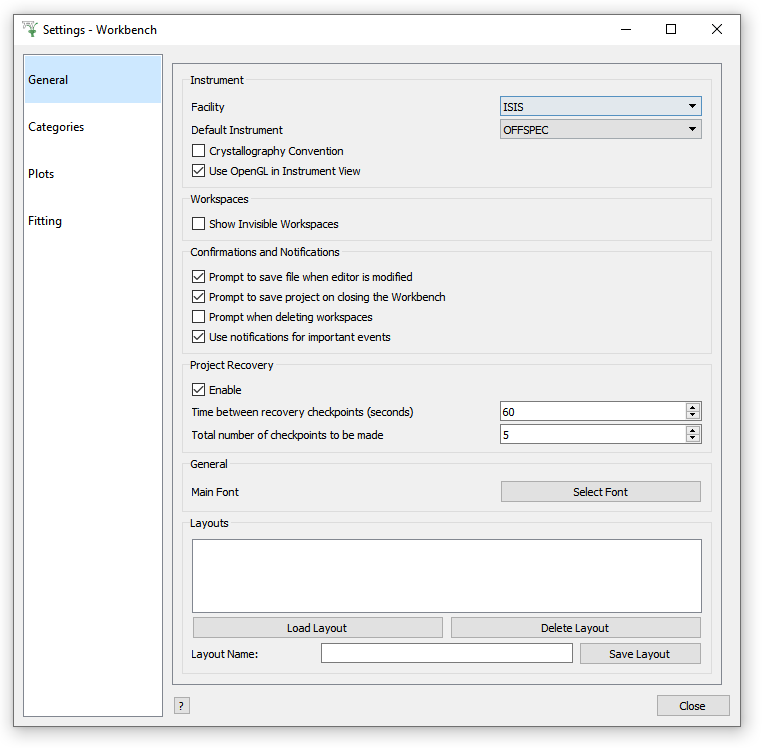
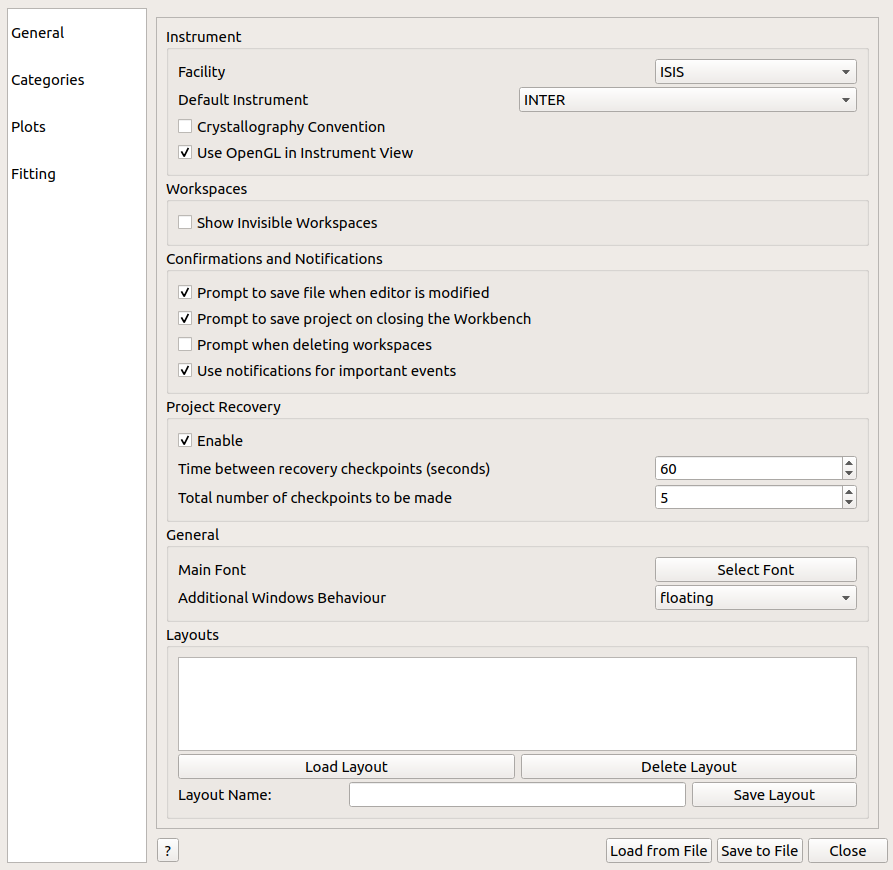
Add documentation describing window behavior
This commit adds documentation describing the window behaviour setting.

Changed region(s): [[0.0, 0.0, 1.0, 1.0]]

diff --git a/docs/source/workbench/windowbehaviour.rst b/docs/source/workbench/windowbehaviour.rst
@@ -1,0 +1,42 @@
+.. _WorkbenchWindowBehavior:
+
+=====================================
+Workbench Additional Window Behavior
+=====================================
+Within workbench, there is a setting (`Additional Window Behavior`) to control the behavior of additional windows, e.g. plots.
+This setting can take two values, floating or ontop, the effect of each can be summarised as follows.
+
+- **Ontop**: The new windows (e.g plots) will stay ontop of the workbench main window
+- **Floating**: The new windows (e.g plots) will be treated as separate windows, not tied to the main workbench window.
+  This means they can go behind the workbench mainwindow, but may be raised again using the task bar icon.
+
+OS Behavior
+***********
+
+These two settings have some subtle differences on each OS due to the window managers employed in each instance.
+Below we summarise the behavior of these settings on each OS.
+
+Linux
+~~~~~~
+
+.. |WindowOnTopLinux| image:: ../images/window_ontop_linux.png
+    :scale: 70%
+    :align: middle
+    :alt: WindowOnTopLinux
+
+On Linux, the ontop setting will cause the minimize and maximize buttons on plots to be lost, which is due to the window manager
+employed. To circumvent this issue, the :ref:`plot toolbox <WorkbenchPlotsToolbox>` can be used to hide/show individual plots.
+
+Alternatively, the user may opt for floating windows and choose which ones they would like to keep ontop using
+the setting provided by the desktop environment, allowing users to set the priority of each window, |WindowOnTopLinux|.
+
+This floating behavior of windows is identical to other software packages, such as Matlab and Spyder.
+
+Mac
+~~~~~~
+Likewise on Mac, the ontop setting will also remove the minimize button. If the user wishes to use floating windows,
+the priority of windows can be controlled through packages such as afloat (https://github.com/rwu823/afloat).
+
+Windows
+~~~~~~~
+On windows the ontop setting will keep plots ontop of the workbench window, while preserving both the minimize and maximize buttons.

diff --git a/docs/source/workbench/settings.rst b/docs/source/workbench/settings.rst
@@ -25,6 +25,9 @@ General
   and projects and error notifications.
 - Project Recovery: These settings enable project recovery in case of a crash (recommended).
 - Main Font: Edit the font type and size used for all of Workbench, except for the script editor and messages box.
+- Additional Window Behavior: This setting controls the behavior of additional windows in Workbench.
+  When it is set to ontop, additional windows such as plot will be kept ontop of the workbench main window.
+  For further details of this setting, such as OS specific behavior, see :ref:`Window Behavior <WorkbenchWindowBehavior>`.
 - Layouts: You can save and load layouts from this area. Save layout will save the current
   arrangement of widgets in the main window that can be loaded using load layout.
 
